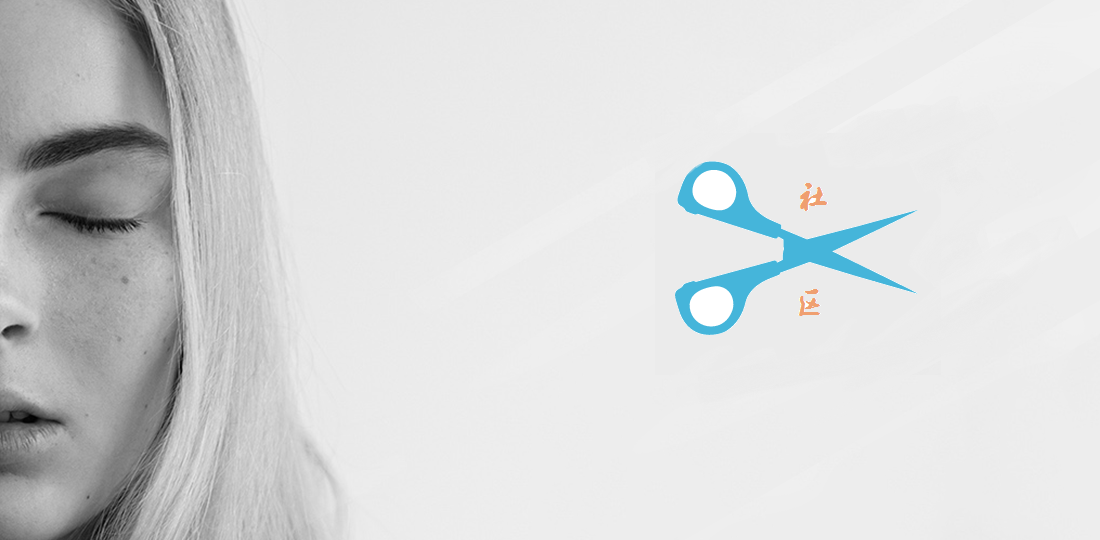
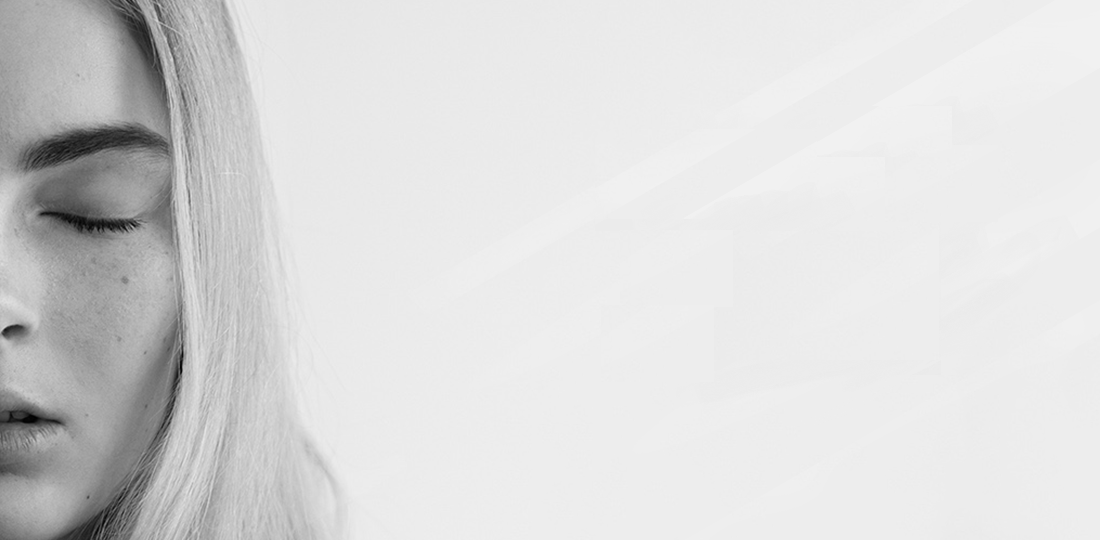
to

diff --git a/src/main/webapp/css/index.css b/src/main/webapp/css/index.css
@@ -276,14 +276,6 @@ input::-webkit-input-placeholder, textarea::-webkit-input-placeholder {
     padding-left: 0.1rem;
 }
 
-.city-login i {
-    display: block;
-    width: 0.3rem;
-    height: 0.3rem;
-    background: url("/img/icon-login.png") no-repeat center;
-    background-size: .28rem auto;
-}
-
 #banner {
     width: 100%;
     height: 3.0rem;
@@ -3907,7 +3899,7 @@ header section:first-child a:after {
 /* banner图样式 -------------------------------------- */
 .focus {
     width: 100%;
-    height: 3.0rem;
+	height: 3.0rem;
     margin: 0 auto;
     position: relative;
     overflow: hidden;
@@ -3958,7 +3950,7 @@ header section:first-child a:after {
 
 .focus .bd li img {
     width: 100%;
-    height: 3.0rem;
+    height: 4.0rem;
 }
 
 .focus .bd li a {
